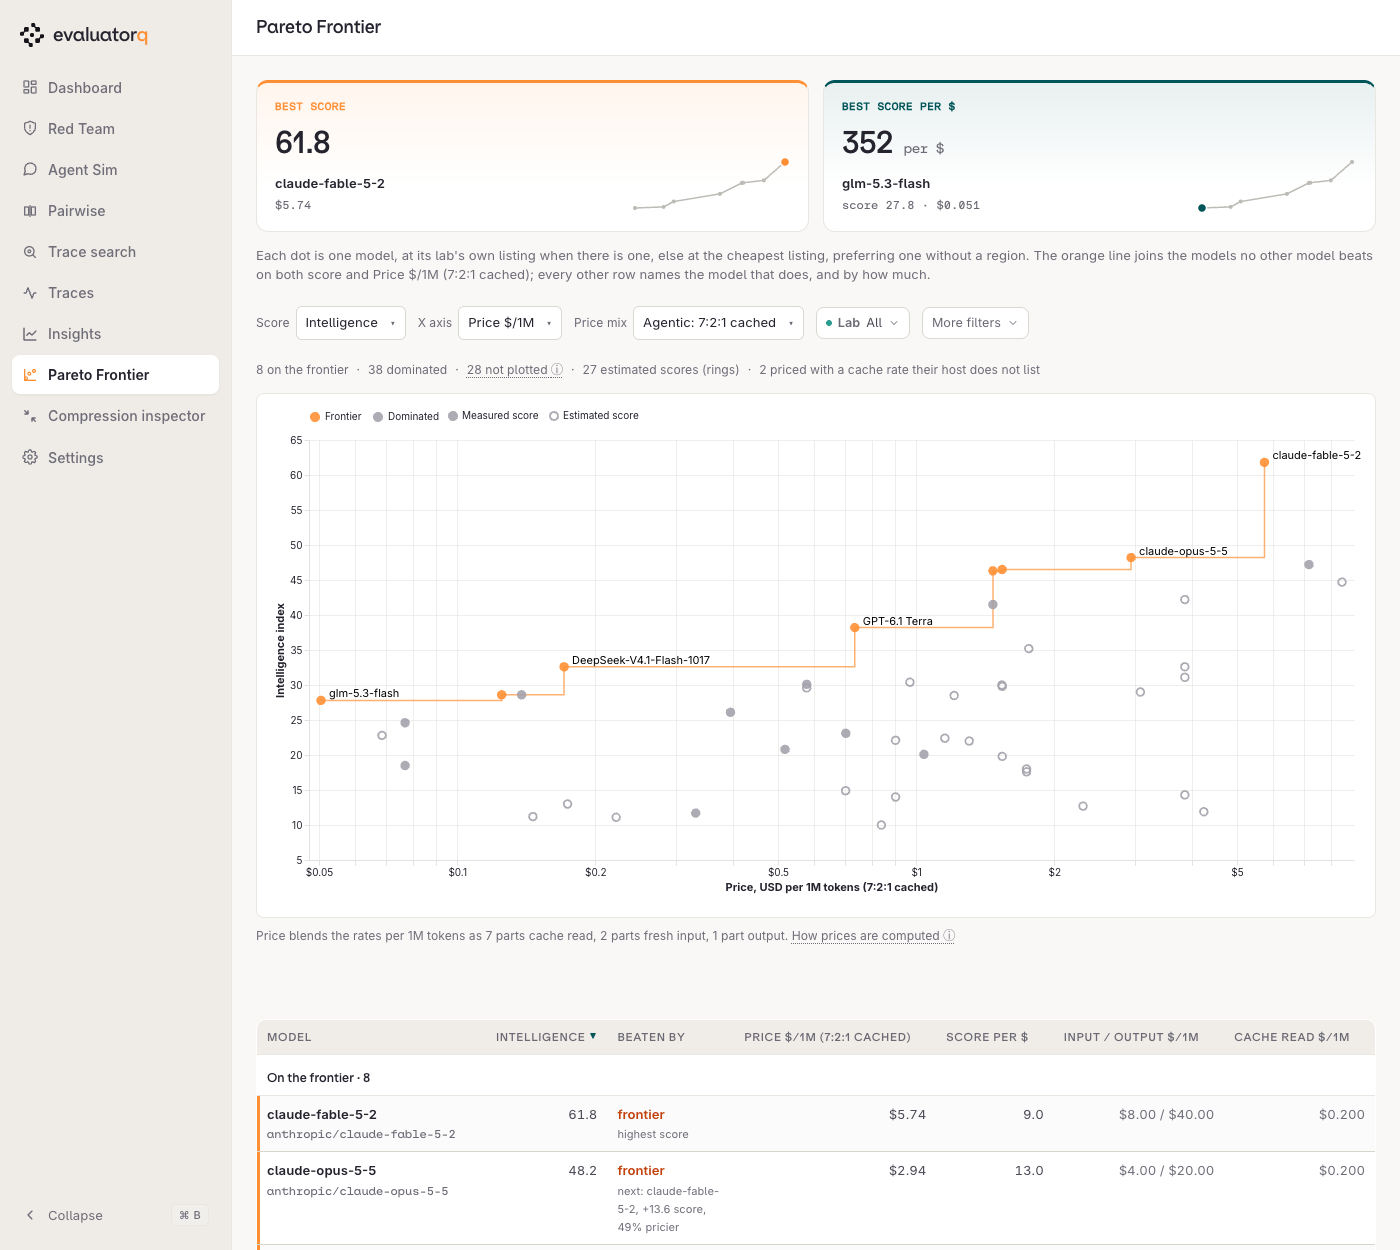
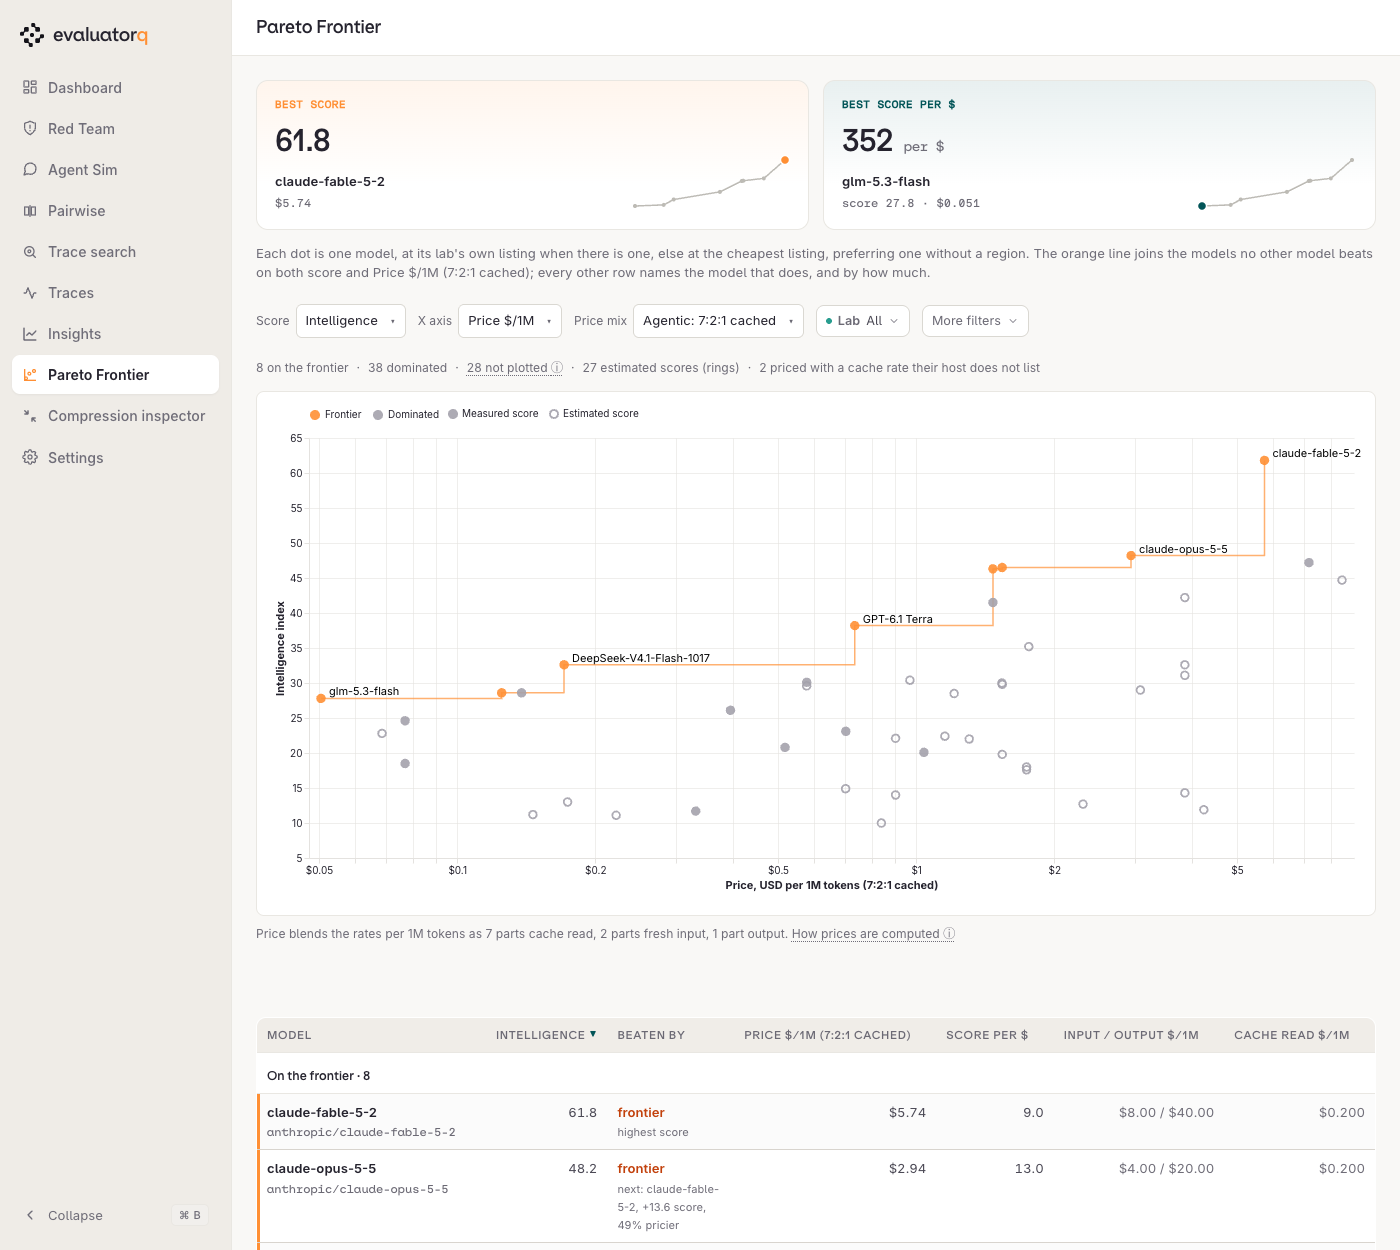
style(dashboard): drop the accent stripe on the Pareto answer cards

diff --git a/src/evaluatorq/dashboard/styles.py b/src/evaluatorq/dashboard/styles.py
@@ -4250,7 +4250,7 @@ _MODELS_CSS = """
 /* Anchored under its button where supported; elsewhere the popover keeps the browser's centred default. */
 @supports (position-area: bottom) { .models-pop { inset: auto; margin: 6px 0 0; position-area: bottom span-right; position-try-fallbacks: flip-block, flip-inline; } }
 .models-cards { grid-template-columns: repeat(auto-fit, minmax(220px, 1fr)); }
-.models-card { --c: var(--orange-500); position: relative; overflow: hidden; border-top: 3px solid var(--c); background: linear-gradient(180deg, color-mix(in srgb, var(--c) 9%, var(--surface-card)) 0%, var(--surface-card) 70%); }
+.models-card { --c: var(--orange-500); position: relative; overflow: hidden; background: linear-gradient(180deg, color-mix(in srgb, var(--c) 9%, var(--surface-card)) 0%, var(--surface-card) 70%); }
 .models-card.is-value { --c: var(--teal-600); }
 .models-card.is-balanced { --c: var(--amber-600); }
 .models-card.is-cheapest { --c: var(--green-600); }
